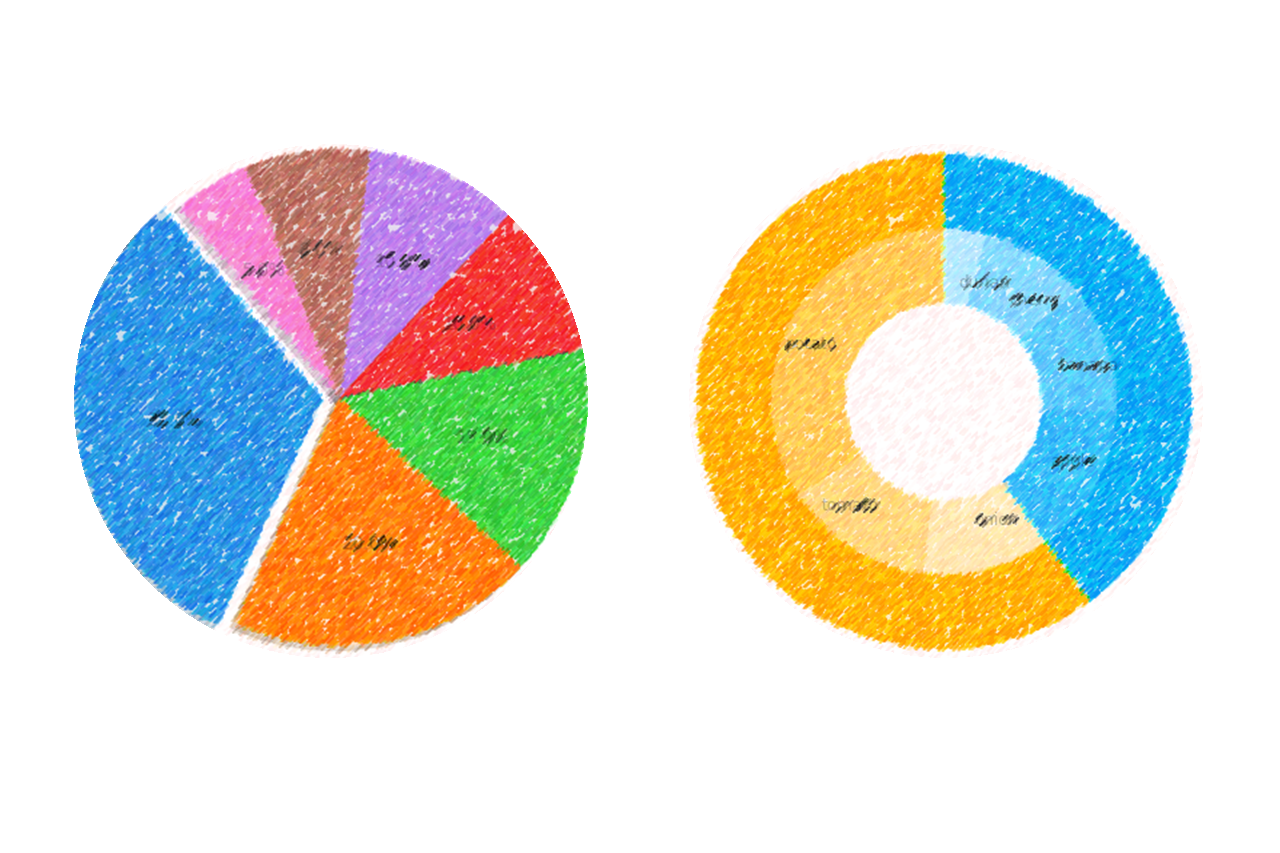
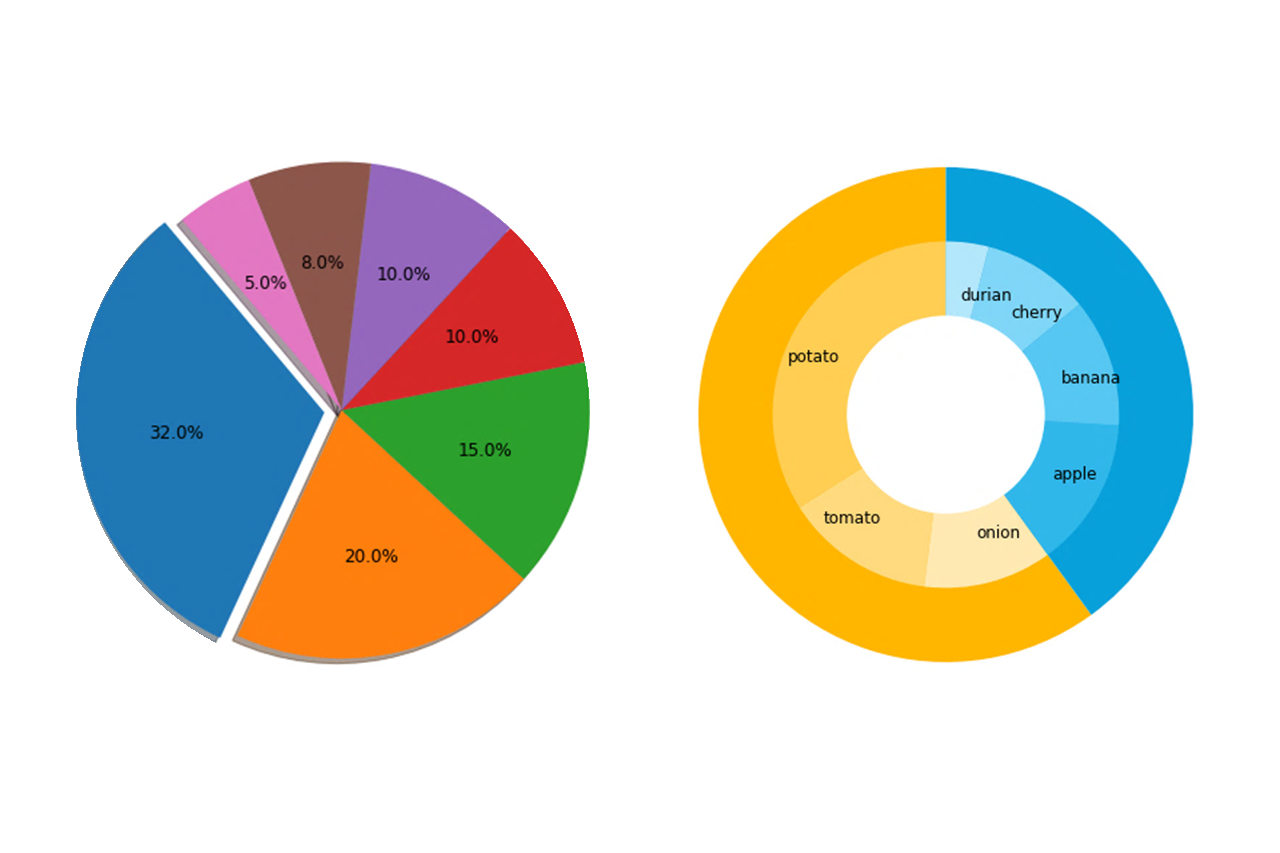
update meta image for social network

Changed region(s): [[0.0312, 0.1524, 0.4688, 0.7925], [0.5312, 0.1524, 0.9375, 0.7925]]

diff --git a/_includes/meta.html b/_includes/meta.html
@@ -16,3 +16,7 @@
     <meta property="og:title" content="{{ page.title }}" />
     <meta property="twitter:title" content="{{ page.title }}" />
     {% endif %}
+
+    <meta property="og:image" content="{{ site.url }}{{ page.img_url | default: site.img_url }}"/>
+    <meta property="og:image:width" content="{{ page.img_width | default: site.img_width }}"/>
+    <meta property="og:image:height" content="{{ page.img_width | default: site.img_height }}"/>

diff --git a/_posts/2018-10-18-data-viz-with-matplotlib-series3-pie-chart.md b/_posts/2018-10-18-data-viz-with-matplotlib-series3-pie-chart.md
@@ -2,19 +2,22 @@
 layout:             post
 title:              "Matplotlib Series 3: Pie chart"
 date:               "2018-10-18 21:05:15 +0200"
-last_modified_at:   2018-11-13 22:45:53 +0100
+last_modified_at:   2018-11-23 22:52:12 +0100
 comments:           true
 excerpt:            >
     This blog specifies how to create pie chart with value labels, donut chart
     and nested pie chart, and how to adjust labels' size and position with
     matplotlib in Python.
+img_url:           images/20181011-pie-header.png
+img_width:         1280
+img_height:        853
 ---
 
-<p align="center">
+<!-- <p align="center">
   <img alt="plot examples"
   src="{{ site.baseurl }}/images/20181011-pie-header.png
 "/>
-</p>
+</p> -->
 
 ## Pie chart
 A [pie chart][pie chart] (or a circle chart) is a circular statistical graphic
